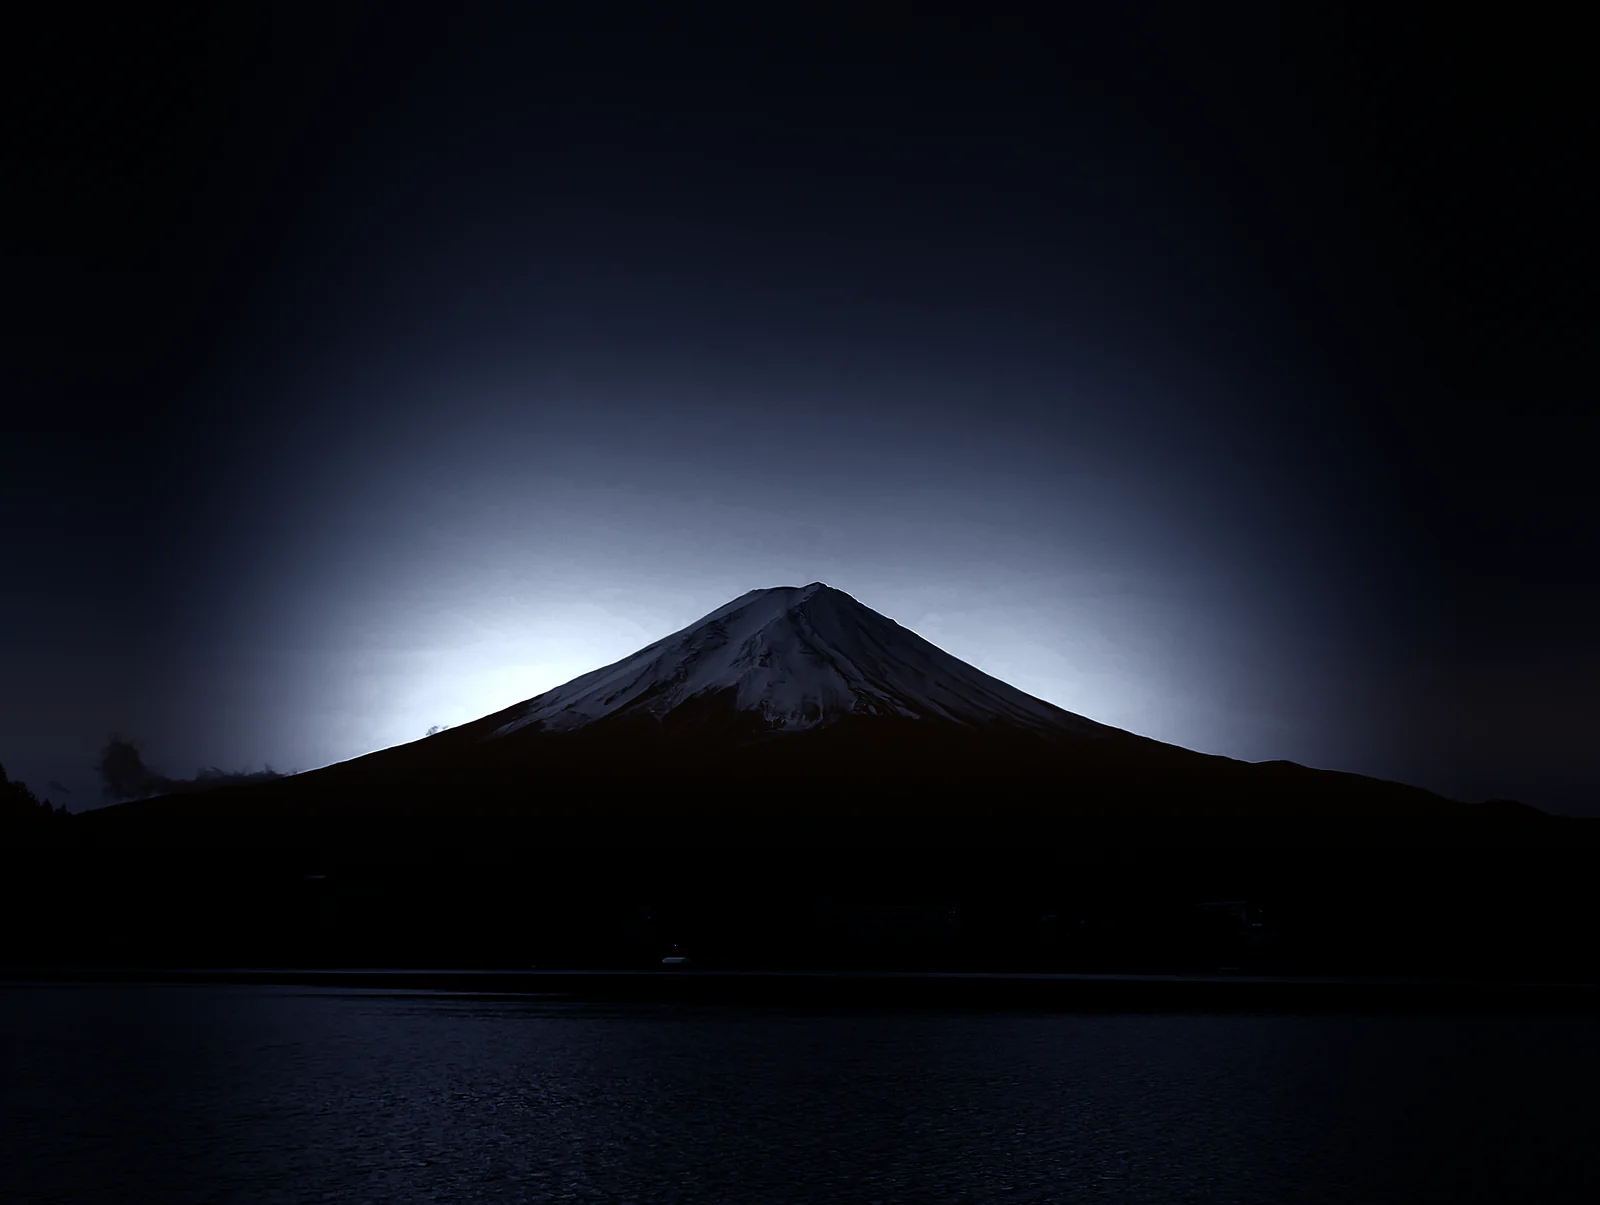
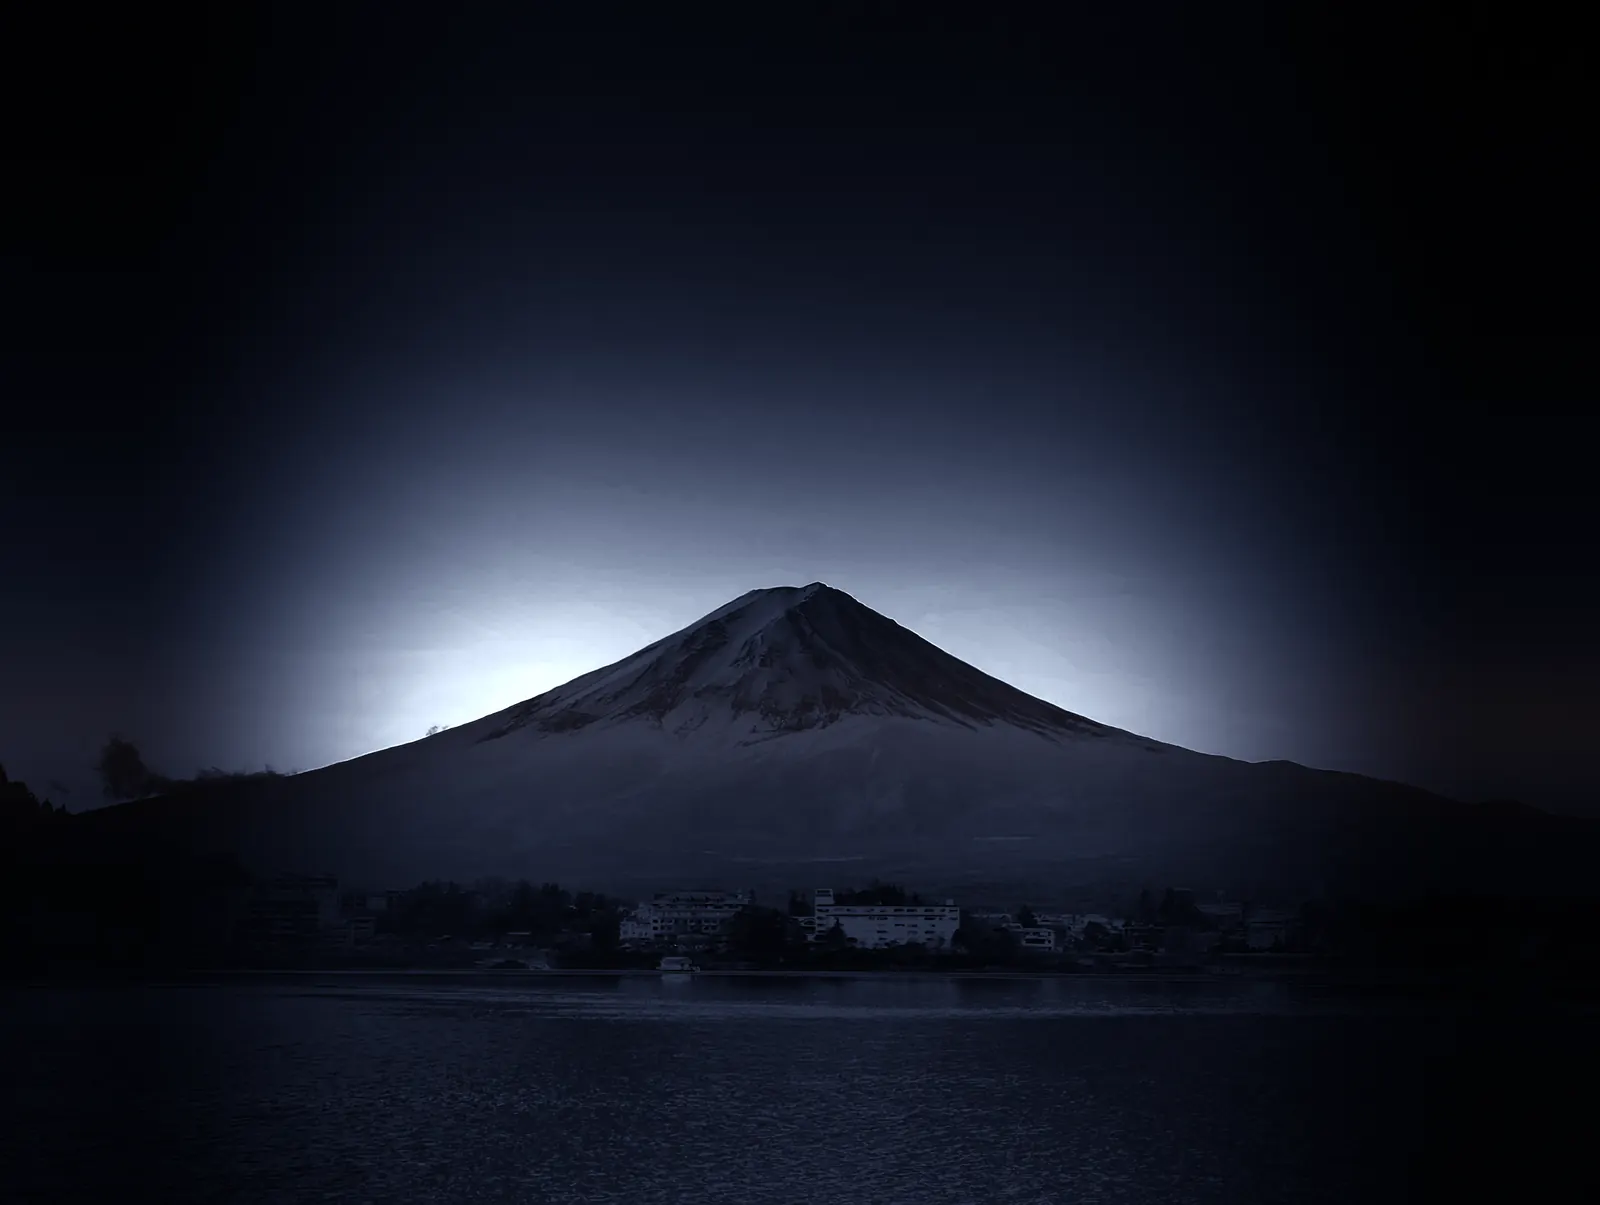
fix(frontend): lift the mountain in the night photograph
The rock was crushed to flat black by the steep night curve, so the mountain
read as a black triangle. Dark pixels in the lower half are now lifted to a
slate blue; the sky glow and the top of the frame keep their previous tones,
so the theme stays dark (mean luminance 0.11).

Changed region(s): [[0.1562, 0.5527, 0.8438, 1.0]]

diff --git a/claude/design-system.md b/claude/design-system.md
@@ -8,7 +8,7 @@ The site is a climb. It opens on a full-bleed photograph of Mount Fuji at dawn (
 
 The test for any visual addition: does it belong to the climb, or is it decoration? If decoration, cut it.
 
-The dark theme is not the light theme with dark tokens: it has its own photograph. `fuji-night-{1600,2560,3840}.webp` is a blue-hour grading of the same picture (mean luminance about 0.09 against 0.58 for the original photo: the sky is near-black at the top, the snow stays luminous, a faint glow sits behind the summit, the outer thirds are dimmed so the horizon never glares). `HeroSection` picks the photo from the theme, and the title turns light on it. The Contact scrim is 88% in the dark theme (75% in the light one) to match.
+The dark theme is not the light theme with dark tokens: it has its own photograph. `fuji-night-{1600,2560,3840}.webp` is a blue-hour grading of the same picture (mean luminance about 0.11 against 0.58 for the original photo: the sky is near-black at the top, a faint glow sits behind the summit, the outer thirds are dimmed so the horizon never glares, and the dark rock of the mountain is lifted to a slate blue so it keeps its slopes and the lakeside village instead of reading as a black triangle; the lift is limited to dark pixels so the sky glow does not grow with it). `HeroSection` picks the photo from the theme, and the title turns light on it. The Contact scrim is 88% in the dark theme (75% in the light one) to match.
 
 Photos live in `frontend/public/images/`, exported from the full-resolution originals (colour-managed to sRGB, light contrast/clarity pass, sharpened after downscale) as `fuji-sunrise-{1600,2560,3840}.webp` (light theme), `fuji-night-{1600,2560,3840}.webp` (dark theme) and `fuji-reflection-{1600,2560}.webp` (Contact), served through `srcset`. All are the owner's own; nobody appears in them. Any other image must also be the owner's own or licensed.
 
